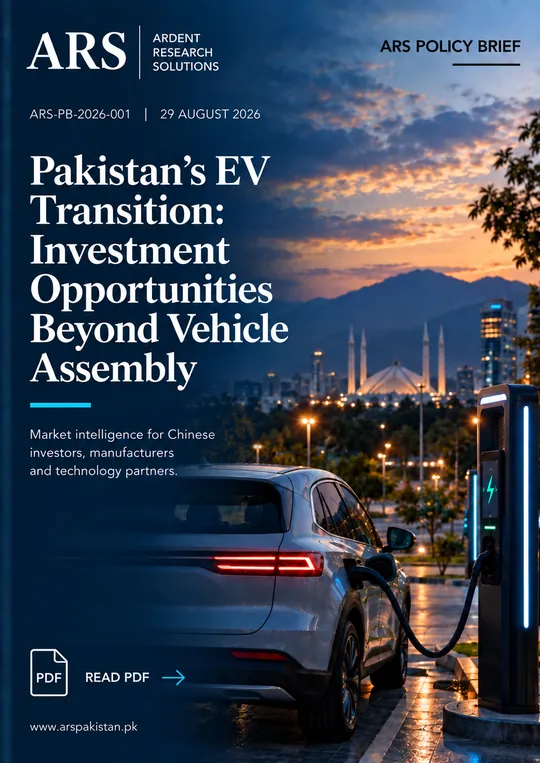
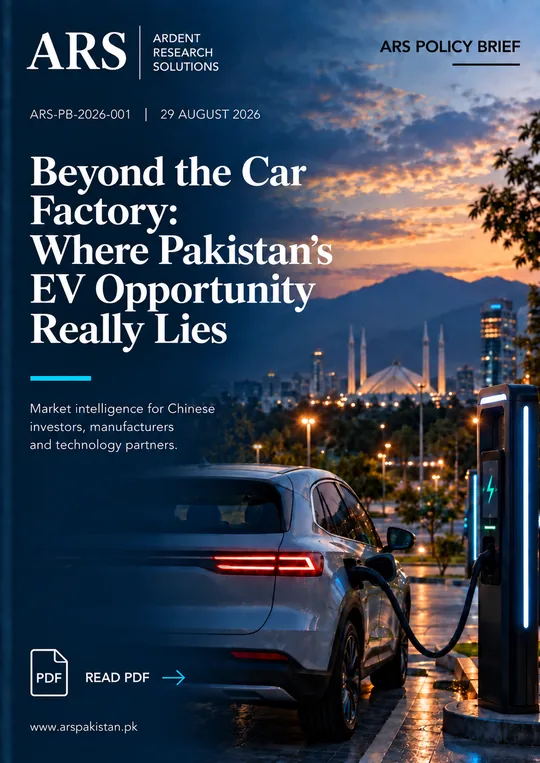
title

diff --git a/policy-briefs/pakistan-china-manufacturing.html b/policy-briefs/pakistan-china-manufacturing.html
@@ -14,7 +14,7 @@
 <meta charset="UTF-8">
 <meta name="viewport" content="width=device-width, initial-scale=1.0">
 
-<title>China+1: Can Pakistan Become China's Next Manufacturing Base?</title>
+<title>Pakistan as China's Next Manufacturing Base | ARS</title>
 
 <meta name="description" content="Can Pakistan become a China+1 manufacturing base? Once energy, logistics and regulation are weighed, the case holds for import substitution, not exports.">
 <link rel="canonical" href="https://arspakistan.pk/policy-briefs/pakistan-china-manufacturing.html">
@@ -27,14 +27,14 @@
 <meta property="og:site_name"       content="Ardent Research Solutions">
 <meta property="og:locale"          content="en_GB">
 <meta property="og:url"             content="https://arspakistan.pk/policy-briefs/pakistan-china-manufacturing.html">
-<meta property="og:title"           content="China+1: Can Pakistan Become China's Next Manufacturing Base?">
+<meta property="og:title"           content="Pakistan as China's Next Manufacturing Base">
 <meta property="og:description"     content="Can Pakistan become a China+1 manufacturing base? Once energy, logistics and regulation are weighed, the case holds for import substitution, not exports.">
 <meta property="og:image"           content="https://arspakistan.pk/assets/og/pakistan-china-manufacturing.jpg">
 <meta property="og:image:secure_url" content="https://arspakistan.pk/assets/og/pakistan-china-manufacturing.jpg">
 <meta property="og:image:type"      content="image/jpeg">
 <meta property="og:image:width"     content="1200">
 <meta property="og:image:height"    content="630">
-<meta property="og:image:alt"       content="ARS Policy Brief: China+1: Can Pakistan Become China's Next Manufacturing Base?">
+<meta property="og:image:alt"       content="ARS Policy Brief: Pakistan as China's Next Manufacturing Base">
 
 <meta property="article:published_time" content="2026-08-30">
 <meta property="article:author"         content="Ardent Research Solutions">
@@ -44,10 +44,10 @@
 <!-- Twitter / X -->
 
 <meta name="twitter:card"        content="summary_large_image">
-<meta name="twitter:title"       content="China+1: Can Pakistan Become China's Next Manufacturing Base?">
+<meta name="twitter:title"       content="Pakistan as China's Next Manufacturing Base">
 <meta name="twitter:description" content="Can Pakistan become a China+1 manufacturing base? Once energy, logistics and regulation are weighed, the case holds for import substitution, not exports.">
 <meta name="twitter:image"       content="https://arspakistan.pk/assets/og/pakistan-china-manufacturing.jpg">
-<meta name="twitter:image:alt"   content="ARS Policy Brief: China+1: Can Pakistan Become China's Next Manufacturing Base?">
+<meta name="twitter:image:alt"   content="ARS Policy Brief: Pakistan as China's Next Manufacturing Base">
 
 
 <script type="application/ld+json">
@@ -60,8 +60,8 @@
   "@id": "https://arspakistan.pk/policy-briefs/pakistan-china-manufacturing.html#report",
   "mainEntityOfPage": "https://arspakistan.pk/policy-briefs/pakistan-china-manufacturing.html",
   "url": "https://arspakistan.pk/policy-briefs/pakistan-china-manufacturing.html",
-  "headline": "China+1: Can Pakistan Become China’s Next Manufacturing Base?",
-  "name": "China+1: Can Pakistan Become China’s Next Manufacturing Base?",
+  "headline": "Pakistan as Chinaâs Next Manufacturing Base",
+  "name": "Pakistan as Chinaâs Next Manufacturing Base",
   "description": "Can Pakistan become a China+1 manufacturing base? Once energy, logistics and regulation are weighed, the case holds for import substitution, not exports.",
   "image": "https://arspakistan.pk/assets/og/pakistan-china-manufacturing.jpg",
   "datePublished": "2026-08-30",
@@ -504,7 +504,7 @@ a {
                      width="800" height="1130"
                      fetchpriority="high"
                      decoding="async"
-                     alt="Cover of ARS Policy Brief ARS-PB-2026-002: China+1: Can Pakistan Become China's Next Manufacturing Base?">
+                     alt="Cover of ARS Policy Brief ARS-PB-2026-002: Pakistan as China's Next Manufacturing Base">
 
             </a>
 
@@ -513,7 +513,7 @@ a {
 
                 <div class="category">Investment &amp; Industrial Policy</div>
 
-                <h1>China+1: Can Pakistan Become China&rsquo;s Next Manufacturing Base?</h1>
+                <h1>Pakistan as China&rsquo;s Next Manufacturing Base</h1>
 
                 <div class="pub-meta">
                     ARS Policy Brief &nbsp;|&nbsp; ARS-PB-2026-002 &nbsp;|&nbsp;

diff --git a/index.html b/index.html
@@ -1680,13 +1680,13 @@ a.news-item.publication-cover:hover h4 {
 
             <a class="cover-thumb"
                href="policy-briefs/pakistan-china-manufacturing.html"
-               title="ARS Policy Brief ARS-PB-2026-002 — China+1: Can Pakistan Become China's Next Manufacturing Base?">
+               title="ARS Policy Brief ARS-PB-2026-002 — Pakistan as China's Next Manufacturing Base">
 
                 <img src="assets/publications/Pakistan-as-Chinas-next-manufacturing-base-540.webp"
                      srcset="assets/publications/Pakistan-as-Chinas-next-manufacturing-base-540.webp 540w, assets/publications/Pakistan-as-Chinas-next-manufacturing-base.webp 800w"
                      sizes="(max-width: 900px) 230px, 270px"
                      width="540" height="763"
-                     alt="Cover of ARS Policy Brief ARS-PB-2026-002: China+1 — Can Pakistan Become China's Next Manufacturing Base?"
+                     alt="Cover of ARS Policy Brief ARS-PB-2026-002: Pakistan as China's Next Manufacturing Base"
                      loading="lazy"
                      decoding="async">
 

diff --git a/policy-briefs/index.html b/policy-briefs/index.html
@@ -385,7 +385,7 @@
     </div>
 
     <h2>
-        China+1: Can Pakistan Become China's Next Manufacturing Base?
+        Pakistan as China's Next Manufacturing Base
     </h2>
 
     <div class="meta">
